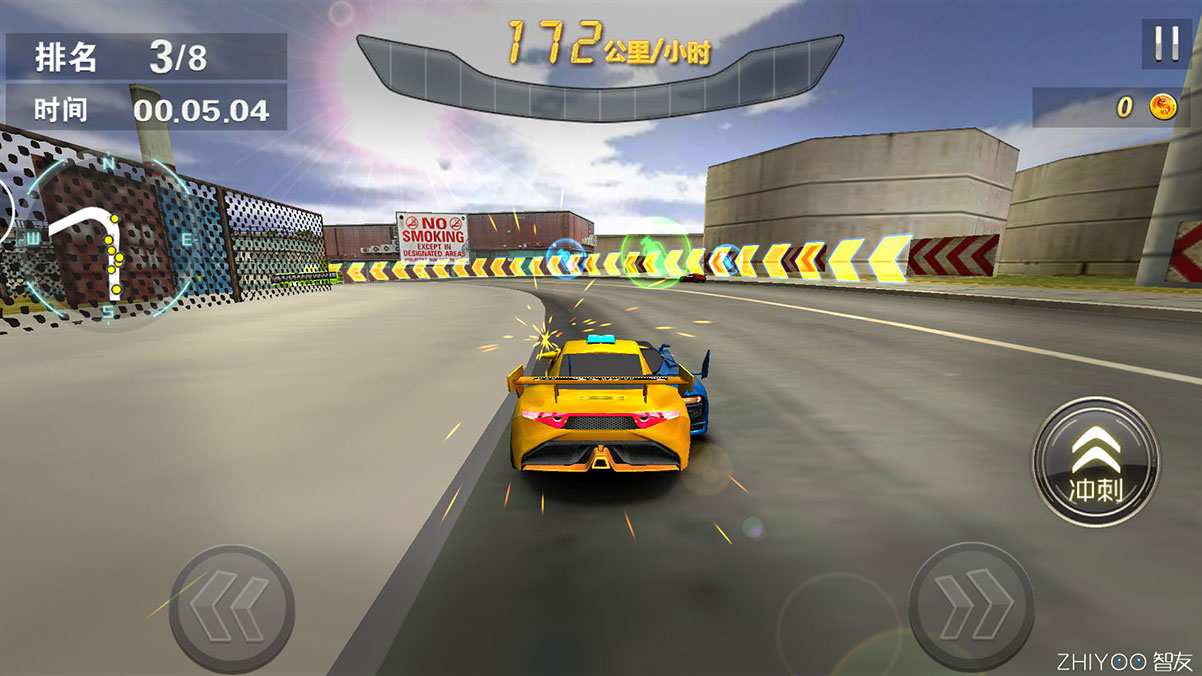
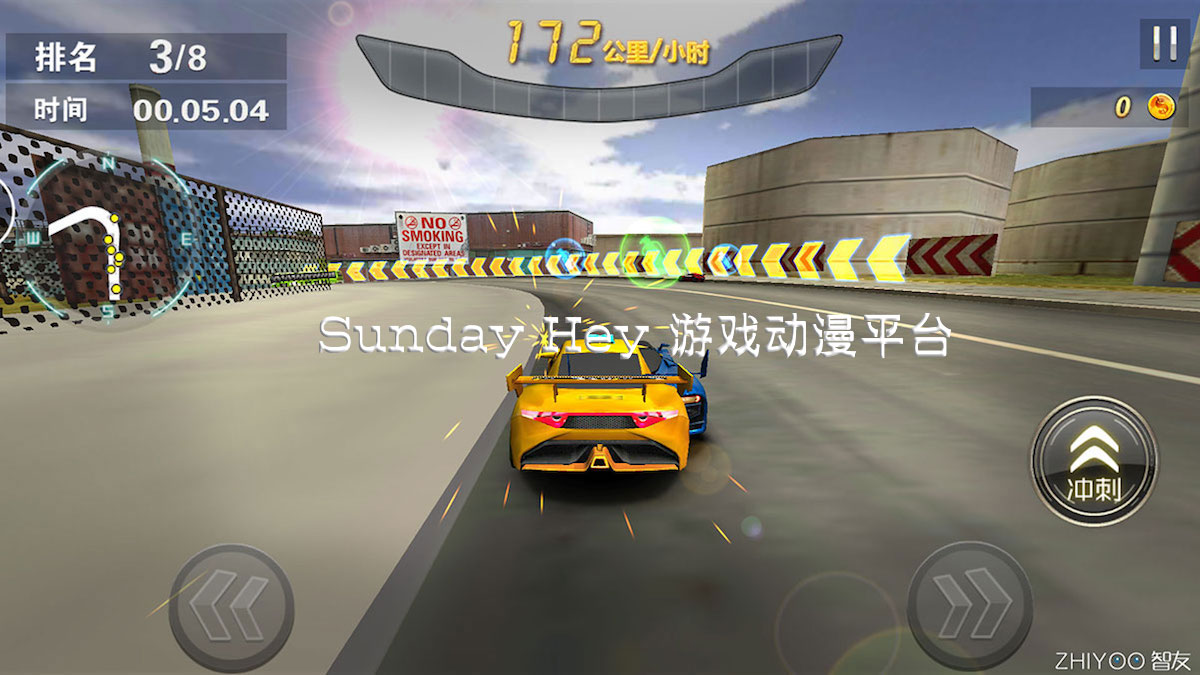
update images and wording

diff --git a/index.html b/index.html
@@ -28,17 +28,6 @@
 		<nav class="navbar navbar-default">
 			<div class="container">
 
-				<div class="navbar-header">
-					<!--
-					<button type="button" class="navbar-toggle collapsed" data-toggle="collapse" data-target="#navbar" aria-expanded="false" aria-controls="navbar">
-						<span class="sr-only">Toggle navigation</span>
-						<span class="icon-bar"></span>
-						<span class="icon-bar"></span>
-						<span class="icon-bar"></span>
-					</button>
-					-->
-					<a  href="index.html"><h1>Sunday Hey 游戏动漫平台</h1></a>
-				</div>
 <!--
 				<div id="navbar" class="navbar-collapse collapse">
 					<ul class="nav navbar-nav navbar-right">
@@ -58,7 +47,7 @@
 		<div class="slider">
 			<ul class="rslides" id="slider">
 				<li>
-					<img src="images/banner3.jpg" alt="" />
+					<img src="images/banner3.jpg" height="" alt="" />
 				</li>
 				<li>
 					<img src="images/banner2.jpg" alt="" />
@@ -88,7 +77,7 @@
 	<!-- //Header -->
 
 <!-- trend -->
-<div class="trend-w3layouts">
+<!-- <div class="trend-w3layouts">
 	<div class="container">
 		<h2>游戏直播（即将上线）</h2>
 		<ul id="flexiselDemo1">			
@@ -146,11 +135,73 @@
 					</script>
 					<script type="text/javascript" src="js/jquery.flexisel.js"></script>
 	</div>
+</div> -->
+<!-- //trend -->
+
+<!-- trend -->
+<div class="trend-w3layouts">
+	<div class="container">
+		<h2>动漫作品</h2>
+		<ul id="flexiselDemo1">			
+				<li>
+					<div class="trend-grid">
+						
+						<img src="images/dm1.jpg" alt=" " class="img-responsive" />
+					</div>
+				</li>
+				<li>
+					<div class="trend-grid">
+						
+						<img src="images/dm2.jpg" alt=" " class="img-responsive" />
+					</div>
+				</li>
+				<li>
+					<div class="trend-grid">
+						
+						<img src="images/dm3.jpg" alt=" " class="img-responsive" />
+					</div>
+				</li>
+				<li>
+					<div class="trend-grid">
+						
+						<img src="images/dm4.jpg" alt=" " class="img-responsive" />
+					</div>
+				</li>
+			</ul>
+						<script type="text/javascript">
+							$(window).load(function() {
+								$("#flexiselDemo1").flexisel({
+									visibleItems: 4,
+									animationSpeed: 1000,
+									autoPlay: true,
+									autoPlaySpeed: 3000,    		
+									pauseOnHover: true,
+									enableResponsiveBreakpoints: true,
+									responsiveBreakpoints: { 
+										portrait: { 
+											changePoint:480,
+											visibleItems: 2
+										}, 
+										landscape: { 
+											changePoint:640,
+											visibleItems:3
+										},
+										tablet: { 
+											changePoint:768,
+											visibleItems: 4
+										}
+									}
+								});
+								
+							});
+					</script>
+					<script type="text/javascript" src="js/jquery.flexisel.js"></script>
+	</div>
 </div>
 <!-- //trend -->
 
 <!-- gallery -->
-	<div class="gallery-w3layouts" id="gallery">
+<!-- 	<div class="gallery-w3layouts" id="gallery">
 		<div class="container">
 			<h2>游戏CG、插画选集</h2>			
 			<div class="gallery-grids">
@@ -189,7 +240,7 @@
 				<div class="clearfix"> </div>
 			</div>
 		</div>
-	</div>
+	</div> -->
 	<!--//gallery -->
 
 <!-- Collection -->
@@ -201,7 +252,7 @@
 				<div class="col-md-8 col-sm-8 collection-right">
 					<div class="col-md-4 col-sm-4 collection-grid collection-text collection-grid-1">
 						<img src="images/c1.png" alt="">
-						<h3>主机游戏 </h3>
+						<h3>主机游戏直播</h3>
 						<p>为您定期整理推荐热门主机游戏大全,让您不错过任何一款好玩的主机游戏</p>
 					</div>
 					<div class="col-md-4 col-sm-4 collection-grid collection-image collection-grid-2">
@@ -209,15 +260,15 @@
 					</div>
 					<div class="col-md-4 col-sm-4 collection-grid collection-text collection-grid-3">
 						<img src="images/c2.png" alt="" />
-						<h3>动漫周边</h3>
-						<p>通过详尽的步骤为您解读绘画秘笈, 揭示绘画技巧, 带您一步步走入色彩斑斓的CG艺术世界</p>
+						<h3>动漫在线观看</h3>
+						<p>经典动画片大全、热门好看的动漫，每周极速更新</p>
 					</div>
 					<div class="col-md-4 col-sm-4 collection-grid collection-image collection-grid-4">
 						
 					</div>
 					<div class="col-md-4 col-sm-4 collection-grid collection-text collection-grid-5">
 						<img src="images/c3.png" alt="" />
-						<h3>手机游戏</h3>
+						<h3>手机游戏直播</h3>
 						<p>高清、流畅、丰富的游戏直播和赛事直播服务，包含英雄联盟lol 直播、王者荣耀直播、绝地求生吃鸡直播</p>
 					</div>
 					<div class="col-md-4 col-sm-4 collection-grid collection-image collection-grid-6">
@@ -340,7 +391,7 @@
 			<h4>联系我们</h4>
 			<ul>
 				<li><span class="glyphicon glyphicon-envelope" aria-hidden="true"></span></li>
-				<li><h7>42483980@qq.com</h7></a></li>
+				<li><h7>hi@sunday37.com</h7></a></li>
 			</ul>
 			<ul>
 				<li><span class="glyphicon glyphicon-earphone" aria-hidden="true"></span></li>
@@ -385,7 +436,7 @@
 		</div>
 		<div class="col-md-4 footer-right-w3">
 			<h4>关于我们</h4>
-			<p>Sunday 游戏平台聚集众多帅哥美女，大神级玩家直播带你进入游戏，传授通关秘籍、游戏技巧。</p>
+			<p>Sunday Hey 游戏平台聚集众多帅哥美女，大神级玩家直播带你进入游戏，传授通关秘籍、游戏技巧。</p>
 			<p class="agileinfo">只要跟着大神走，通关上分全都有。快来体验观看吧。</p>
 		</div>
 		<div class="clearfix"></div>
